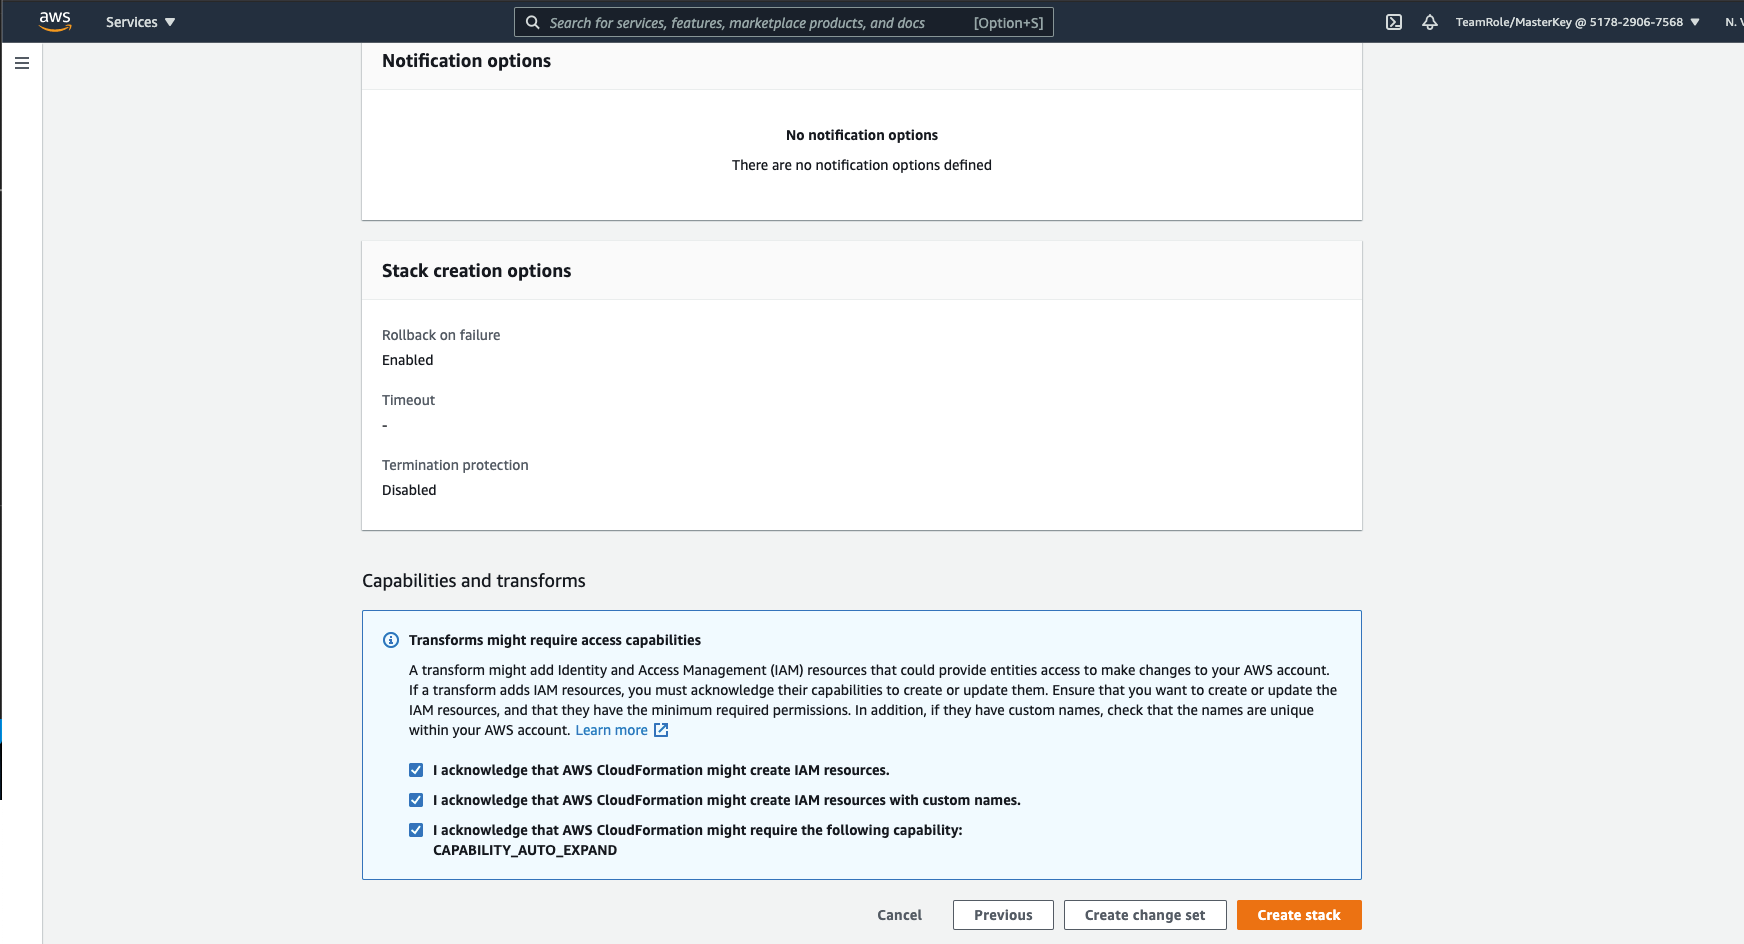
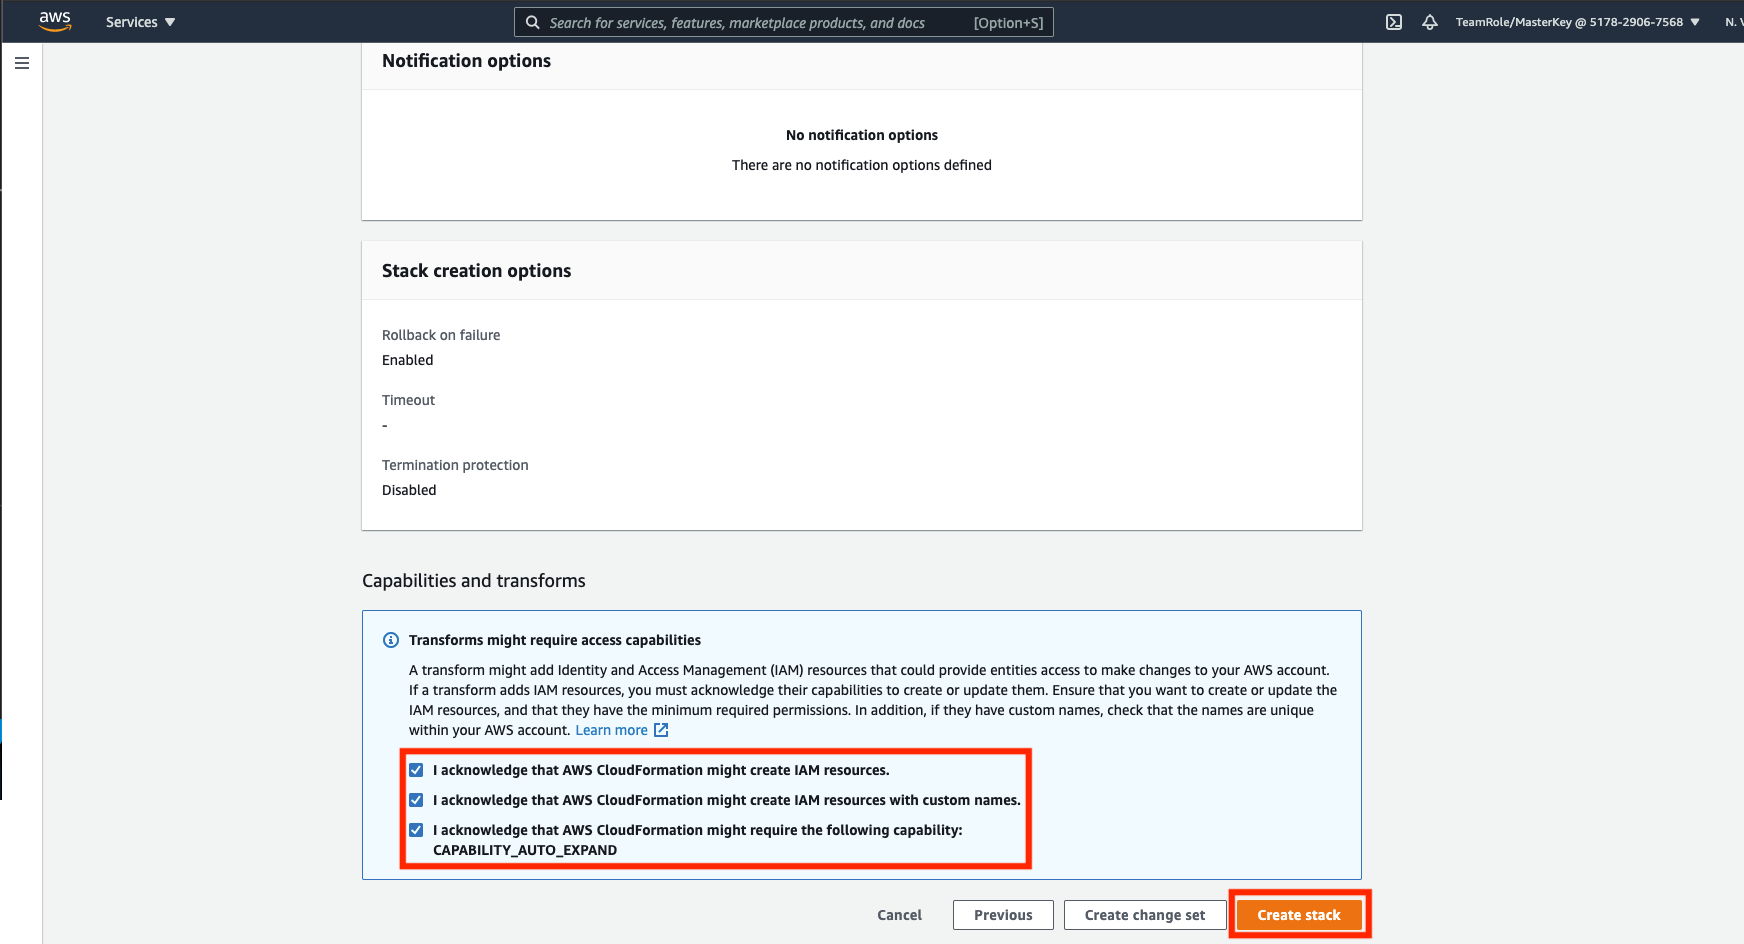
Finalize CloudFormation

Changed region(s): [[0.2167, 0.768, 0.6193, 0.9216], [0.6812, 0.9216, 0.805, 1.0]]

diff --git a/docs/CloudFormationStack.md b/docs/CloudFormationStack.md
@@ -20,7 +20,7 @@
 This will take a while to set up the stack.
 
 12. Once it's complete, it will display `CREATE_COMPLETE` on the left side of stack
-    ![](../images/CloudFormationStack/12.png)
+    ![](../images/CloudFormationStack/13.png)
 
 13. Please click the `Outputs` tab and make sure to not close the page, since you will need it later.
 
